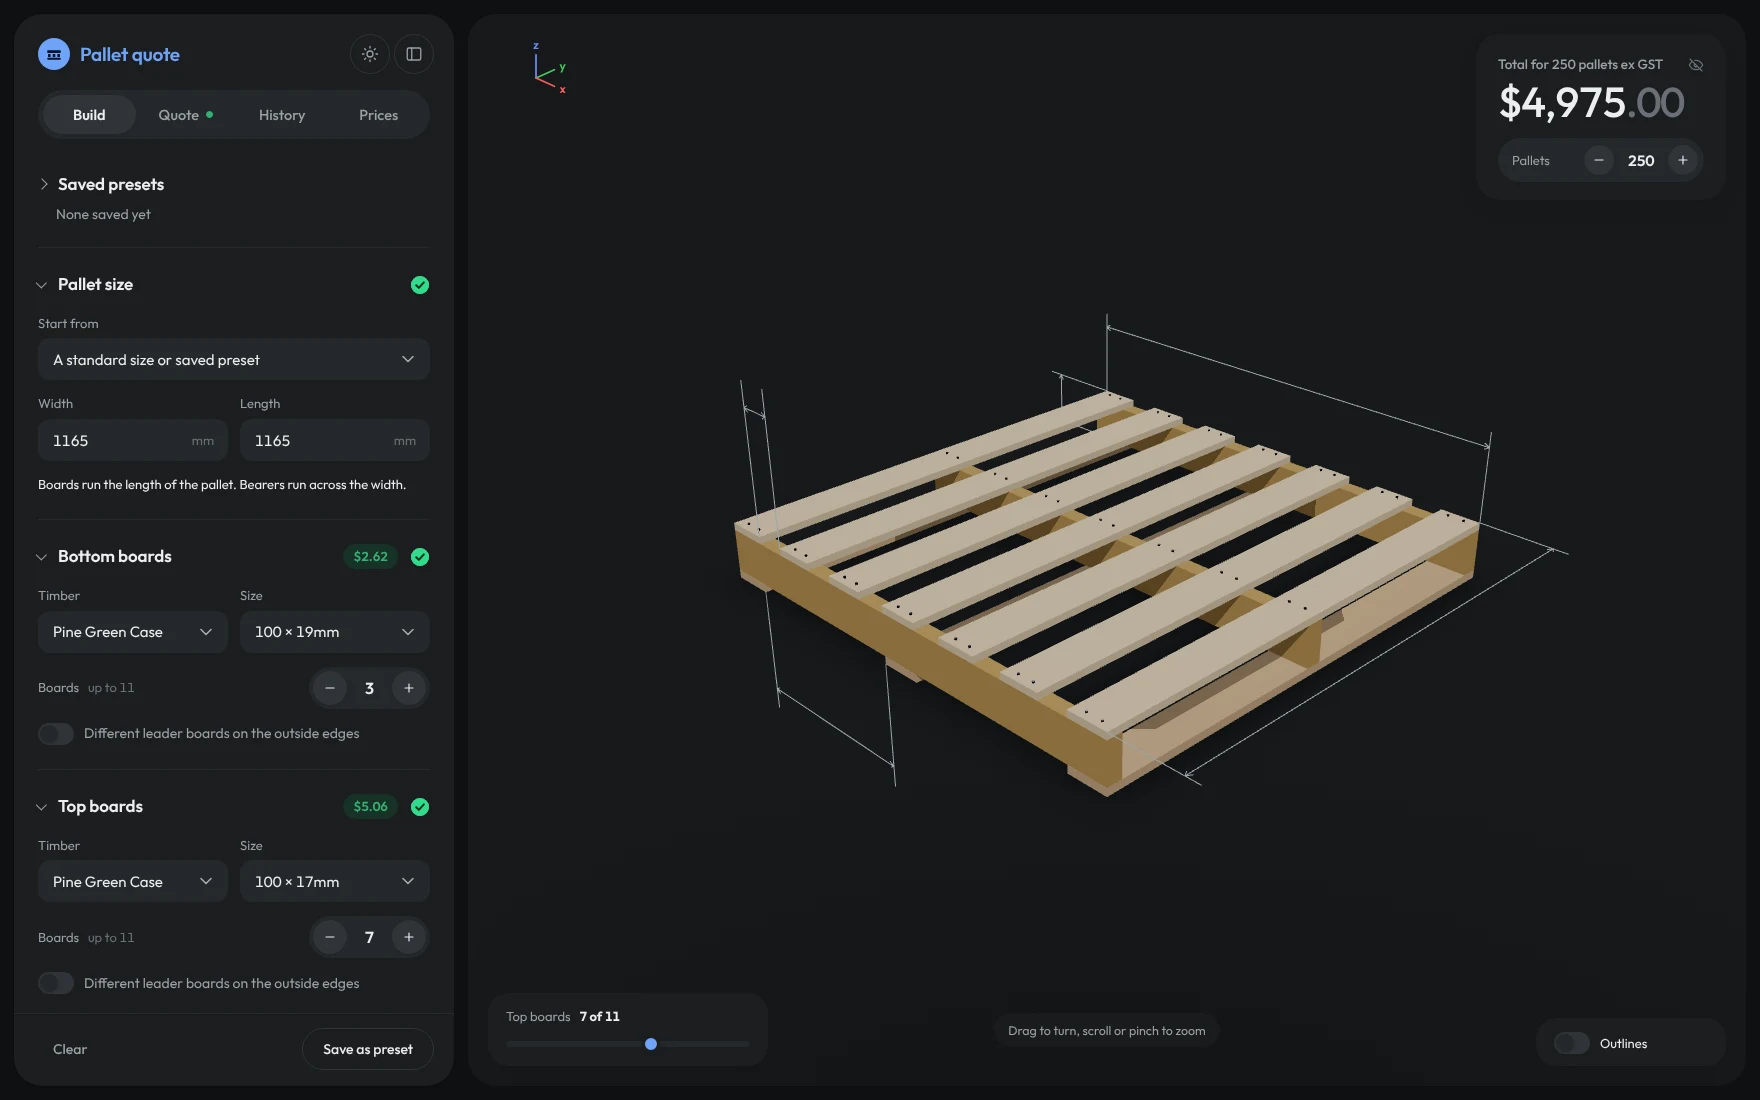
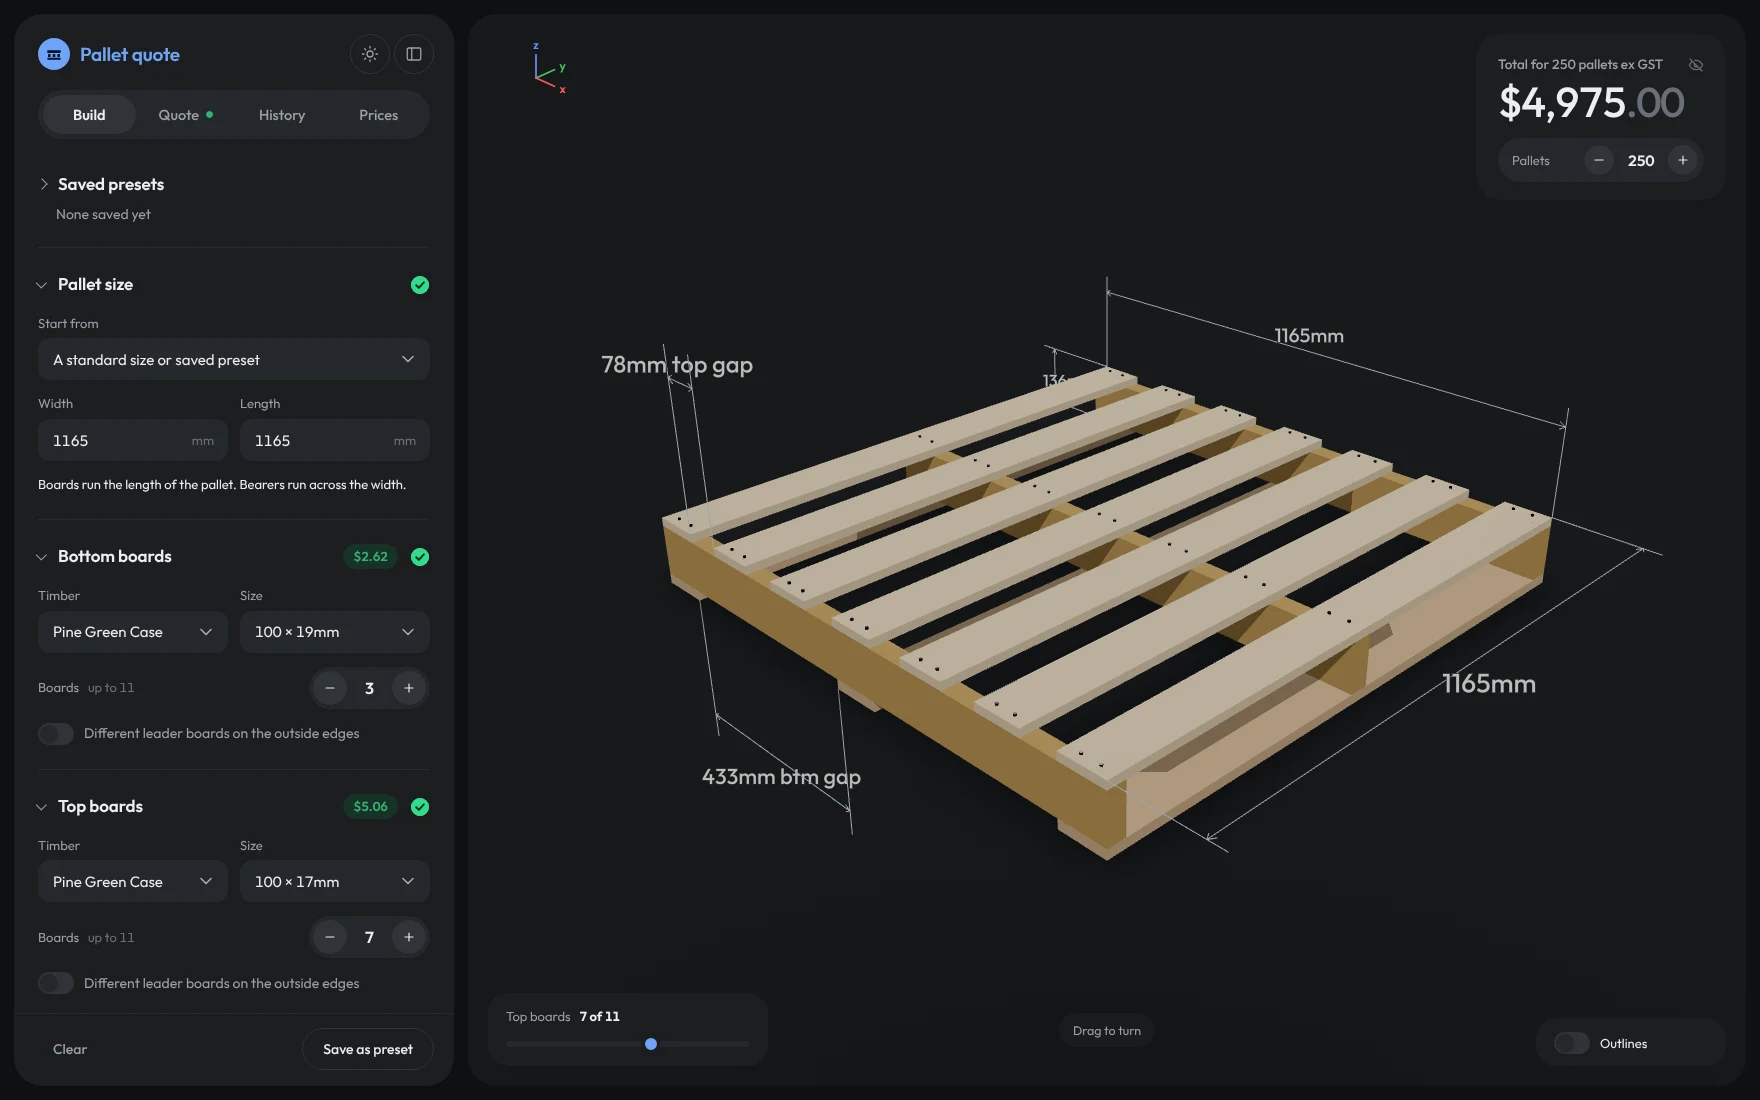
Demo on the landing page: pallet framed about 16% closer; laptop screen picture recaptured to match
Claude-Session: https://claude.ai/code/session_01KP5iaCsvARYx2E1oTLLzGR

diff --git a/src/components/Pallet3DLive.jsx b/src/components/Pallet3DLive.jsx
@@ -140,7 +140,8 @@ function CameraFit({ width, length, height }) {
   const aspect = viewport.width / Math.max(1, viewport.height)
   const narrowFactor = aspect < 1.2 ? 1.2 / aspect : 1
   useEffect(() => {
-    const distance = size * 2.8 * narrowFactor
+    // The landing page's demonstration sits a little closer, as its zoom is locked
+    const distance = size * (DEMO ? 2.35 : 2.8) * narrowFactor
     const dir = camera.position.clone()
     if (dir.lengthSq() < 1e-6) dir.set(14, 10, 14)
     dir.normalize().multiplyScalar(distance)
